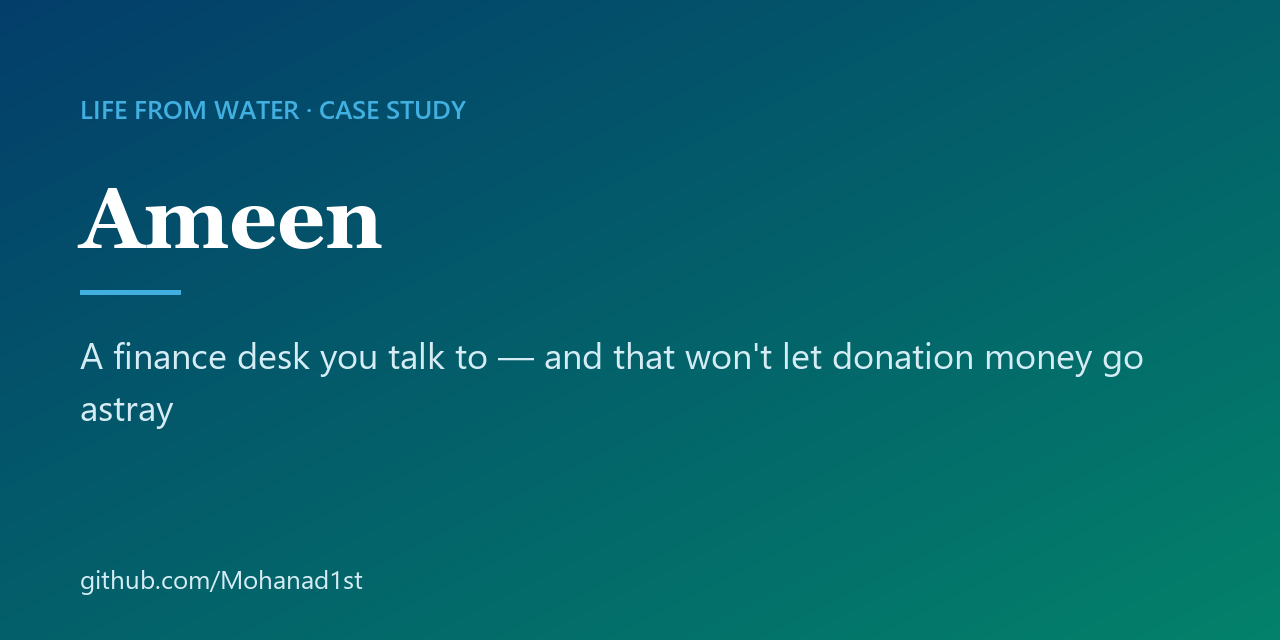
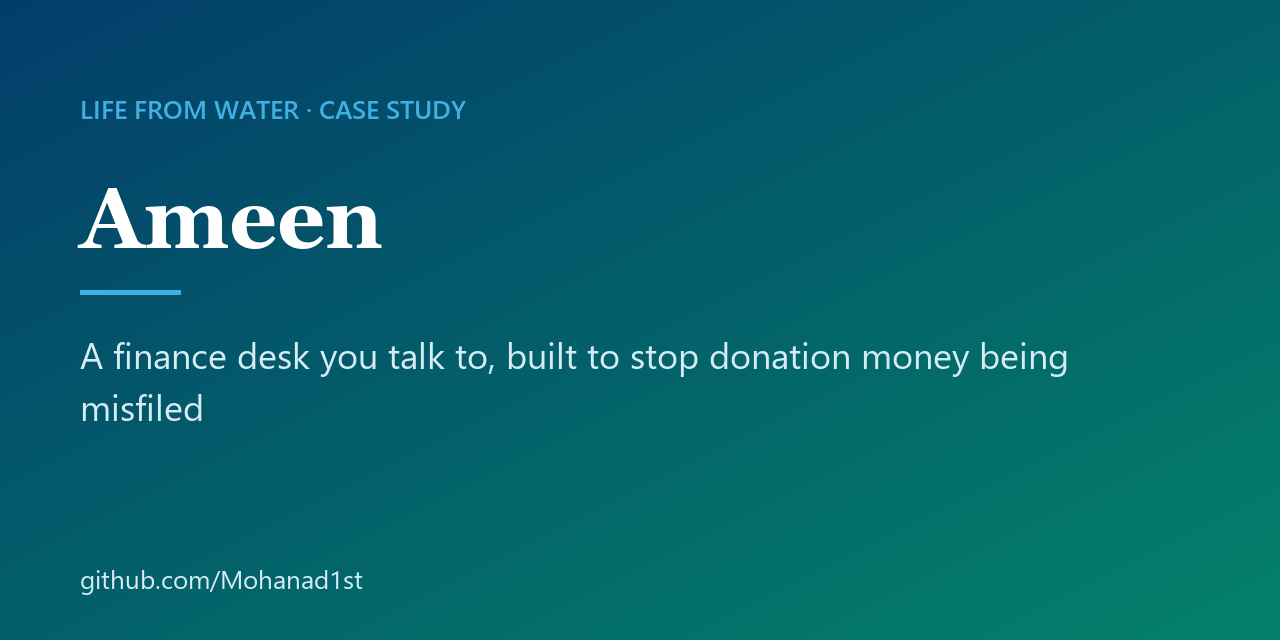
docs: tighten claims and privacy wording after review
Softens claims that went beyond current state, removes screens and bullets that described still-open work, adds per-project privacy notes.

Changed region(s): [[0.375, 0.5312, 0.9062, 0.5938], [0.0625, 0.625, 0.1562, 0.6562]]

diff --git a/README.md b/README.md
@@ -1,8 +1,8 @@
-<p align="center"><img src="assets/banner.svg" alt="Ameen — A finance desk you talk to — and that won&#x27;t let donation money go astray" width="100%"></p>
+<p align="center"><img src="assets/banner.svg" alt="Ameen — A finance desk you talk to, built to stop donation money being misfiled" width="100%"></p>
 
 <p align="center"><b>Status:</b> Internal pilot &nbsp;·&nbsp; <b>Built by</b> <a href="https://github.com/Mohanad1st">Mohannad Hesham</a> &nbsp;·&nbsp; <b>Source:</b> private</p>
 
-> **This is a showcase, not the code.** The source is private because the system handles real operations for real people. Nothing here is needed to run it, and nothing here reveals how it is secured. A live walkthrough is available on request.
+> **This is a showcase, not the code.** The source is private because it holds real financial records. This page shows what it does and how it was built, not the code itself. A live walkthrough is available on request.
 
 ## The problem
 
